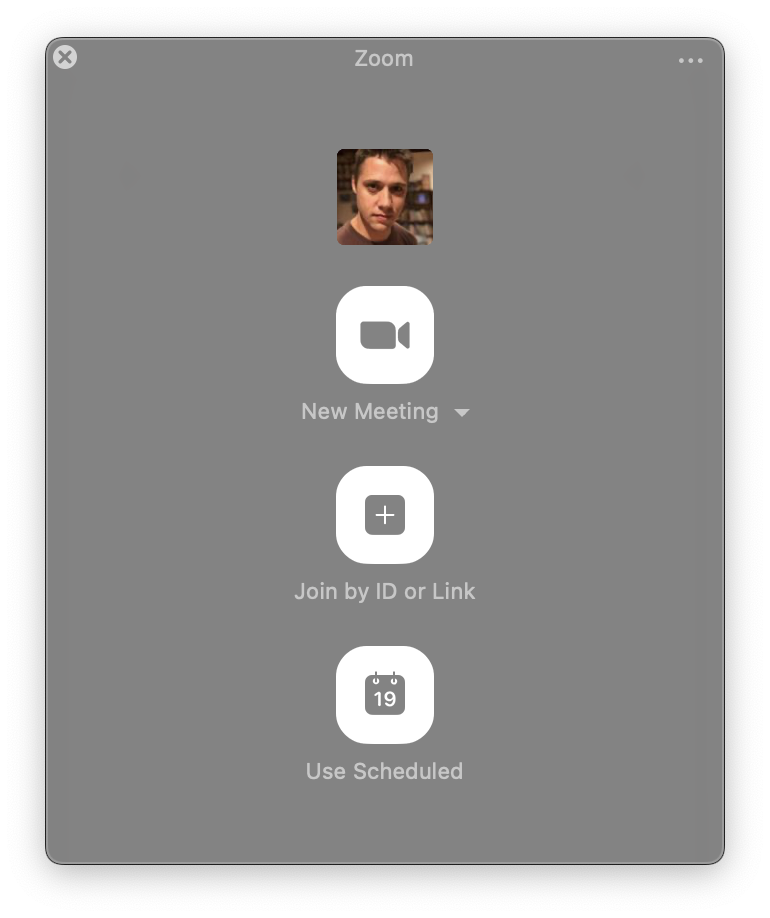
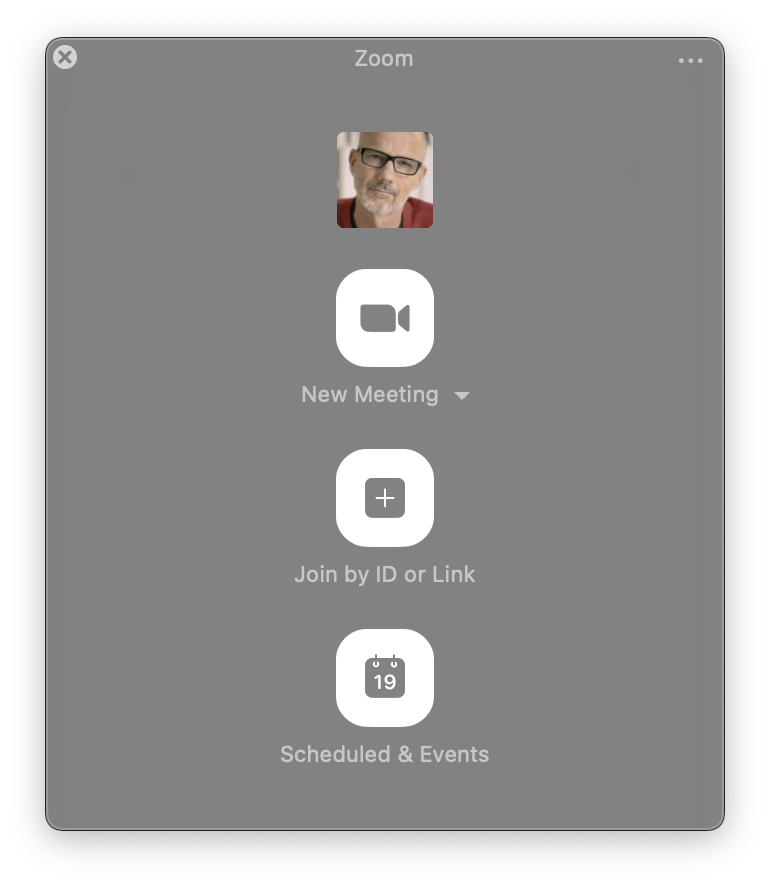
v4.3

diff --git a/docs/_ecamm-live-manual/008-adding-zoom.md b/docs/_ecamm-live-manual/008-adding-zoom.md
@@ -1,20 +1,33 @@
 ---
 
 ---
+**BETA FEATURE!** 
+Ecamm for Zoom is a beta feature! This means that you'll need a beta version of the app to use any of the features describe here. Help us test this exciting new capability by [downloading the Ecamm Live Beta](https://www.ecamm.com/beta).
+{:.notice--info}
 
 ## What Can You Do With Zoom in Ecamm?
 
-Ecamm Live's Zoom integration provides for two main use cases:
+Ecamm Live's Zoom integration provides for two main uses:
 
-- Quickly and easily add Zoom participants as camera sources in your broadcast or recording. Up to eight Zoom participants can join in simply by joining your Zoom meeting or event.
+- Add Zoom participants as camera sources in your broadcast or recording. Up to eight Zoom participants can join in simply by joining your Zoom Meeting, Zoom Webinar, or Zoom Event. 
 
-- Automatically send Ecamm Live's audio and video output into a Zoom meeting or event.
+- Automatically send Ecamm Live's audio and video output into a Zoom Meeting, Zoom Webinar, or Zoom Event.
+
+Other features include:
+
+- Automatically create individual participant audio and video recordings (also called [ISO recording](018-other-options/#recording-preferences)) during a live stream or recording.
+
+- Add Zoom chat messages to your meeting broadcast/recording as text overlays.
 
 ## Host System Requirements
 
 - To use Ecamm Live's Zoom integration we recommend an iMac, Mac Studio, Mac Mini or MacBook Pro manufactured in 2020 or newer, and at least a 10 Mbps internet connection. 
 
-- An Apple Silicon-based Mac running macOS 10.14 or newer is required.
+- An [Ecamm Live Pro plan](https://appg2.ecamm.com/users/pricingplans) is required.
+
+- An Apple Silicon-based Mac is required for individual participant [audio and video (ISO) recording](018-other-options/#recording-preferences).
+
+- A Zoom Pro plan is required for 720p video resolution. A Zoom Business plan is required for 1080p video resolution. See [Maximizing Participant Video Resolution](#maximizing-participant-video-resolution).
 
 - Wearing headphones is not required, but typically results in better audio quality. If you are not using headphones, be sure to turn on [Echo Cancellation](../014-adjusting-sound-levels/#echo-cancellation) in the Sound Levels window.
 
@@ -30,7 +43,7 @@ Ecamm Live's Zoom integration provides for two main use cases:
 
 ## Ecamm Live's Zoom Window
 
-The Zoom window is used to create and join Zoom meetings, as well as to manage the meeting's participants. If you don't see the Zoom window on your screen, pick <samp>Zoom</samp> from the <samp>Window</samp> menu at the top of the screen. 
+The Zoom window is used to create and join Zoom meetings, as well as to manage the meeting's participants. If you don't see the Zoom window on your screen, pick <samp>Zoom</samp> from the <samp>Window</samp> menu at the top of the screen, or click the Zoom icon on the right-hand side of the [Main window](../002-the-main-window).
 
 ![Figure\: The Zoom Window](/assets/img/unlinked_zoom.png "The Zoom Window"){:width="350px"}
 
@@ -42,13 +55,13 @@ If you have not linked Ecamm to your Zoom account, you'll see a <samp>Link Zoom 
 
 Once linked, you may prompted to return to the Ecamm Live app. Click <samp>Allow</samp>.
 
-The Zoom window will now show your avatar image and buttons to create and join Zoom meetings and events.
+The Zoom window will now show your avatar image and buttons to create and join Zoom Meetings, Zoom Webinars, and Zoom Events.
 
 ![Figure\: The Zoom Window](/assets/img/logged_in.png "The Zoom Window"){:width="350px"}
 
 ## Creating or Joining a Zoom Meeting
 
-Click <samp>New Meeting</samp> to create a new Zoom meeting. A Zoom meeting window will open. Alternatively, join an existing meeting using the <samp>Join By ID or Link</samp> button or the <samp>Use Scheduled</samp> button. The <samp>Use Scheduled</samp> button will also provide access to scheduled Zoom webinars, and event sessions.
+Click <samp>New Meeting</samp> to create a new Zoom meeting. A Zoom meeting window will open. Alternatively, join an existing Zoom Meeting or Zoom Webinar using the <samp>Join By ID or Link</samp> button or the <samp>Scheduled & Events</samp> button. The <samp>Scheduled & Events</samp> button will also provide access to scheduled Zoom Event sessions.
 
 Note that there is no need to open the Zoom app on your Mac. The meeting will be conducted entirely within the Ecamm Live app.
 
@@ -66,29 +79,31 @@ The meeting will automatically use the output of Ecamm Live as its camera source
 
 ## Inviting and Managing Participants
 
-Once a meeting has started, you'll see your Zoom invitation link displayed at the bottom of the window. Send this link to your guests to allow them to join your meeting. Click the link to copy it to your Mac's clipboard. 
+Once a meeting has started, you'll see your Zoom invitation link displayed at the bottom of the window. Send this link to your guests to allow them to join your meeting. Click the link to copy it. 
 
 ![Figure\: The Zoom Window](/assets/img/emptymeeting.png "The Zoom Window"){:width="350px"}
 
-When Zoom participants join, they will be listed in the Zoom window and automatically added as camera sources in Ecamm Live's camera list. Zoom guest audio will be mixed into the broadcast or recording automatically.
+When Zoom Meeting participants and Zoom Webinar panelists join, they will be listed in the Zoom window. Zoom guest audio will be mixed into the broadcast or recording automatically.
 
-Note that if the guest may need to manually start their camera in Zoom before video will be received.
+![Figure\: The Zoom Window](/assets/img/addclarence.png "The Zoom Window"){:width="350px"}
+
+#### Adding Guests as Cameras
+
+Add guests to Ecamm Live's camera list by clicking the <samp>Add</samp> button. Note that guests may also need to start their camera in Zoom before video will be received.
 
 ![Figure\: The Zoom Window](/assets/img/clarence.png "The Zoom Window"){:width="350px"}
 
 #### Removing Guests
 
-To remove a guest from Ecamm Live's camera list, click the ••• button in the top corner of that guest's video feed, and pick <samp>Remove from Cameras</samp> You will see their video feed change to their avatar icon, along with an <samp>Add</samp> button.
+To remove a guest from Ecamm Live's camera list, click the ••• button in the top corner of that guest's video feed, and pick <samp>Remove from Cameras</samp>. You will see their video feed change back to their avatar icon, along with an <samp>Add</samp> button.
 
-![Figure\: The Zoom Window](/assets/img/addclarence.png "The Zoom Window"){:width="350px"}
-
-To remove the participant from the meeting completely, click the ••• button in the top corner of that guest's video feed, and pick <samp>Return to Waiting Room</samp> or <samp>Remove from Zoom Meeting</samp> Note that if you use the <samp>Remove from Zoom Meeting</samp> feature, the participant may not be able to rejoin the meeting. Also note that neither of these options can be used on a meeting host or [co-host](https://support.zoom.com/hc/en/article?id=zm_kb&sysparm_article=KB0066640).
+To remove the participant from the meeting completely, click the ••• button in the top corner of that guest's video feed, and pick <samp>Return to Waiting Room</samp> or <samp>Remove from Zoom Meeting</samp>. Note that if you use the <samp>Remove from Zoom Meeting</samp> feature, the participant may not be able to rejoin the meeting. Also note that neither of these options can be used on a meeting host or [co-host](https://support.zoom.com/hc/en/article?id=zm_kb&sysparm_article=KB0066640).
 
 #### Muting Guests
 
 To mute a guest in the Zoom meeting, click the ••• button in the top corner of that guest's video feed, and pick <samp>Mute Guest</samp>. Once muted, pick <samp>Ask to Unmute</samp> to prompt the guest to unmute. Note that this feature is only available if you are a meeting host or  [co-host](https://support.zoom.com/hc/en/article?id=zm_kb&sysparm_article=KB0066640).
 
-### Ending the Meeting
+#### Ending the Meeting
 
 End the meeting by clicking the red <samp>End Meeting</samp> button in the Zoom window or Zoom Meeting window. Alternatively, simply close the Zoom Meeting window. Note that the button will be labeled <samp>Leave Meeting</samp> if you're not the meeting host.
 
@@ -98,17 +113,64 @@ To access the Zoom meeting's settings, pick <samp>Zoom Meeting Settings...</samp
 
 Other preferences related to Zoom can be found in Ecamm Live's Preferences window.
 
-#### Auto-Admit Participants
+#### Auto-Admit Zoom Participants
 
-Participants can automatically bypass Zoom's waiting room feature. In the ••• menu in the top right-hand corner of the Zoom window, choose from the three <samp>Auto-Admit Participants</samp> options. To only auto-admit participants who have previously joined your meetings, pick <samp>Known Participants</samp>.
+Participants can automatically bypass Zoom's waiting room feature. In the ••• menu in the top right-hand corner of the Zoom window, or in Ecamm Live's Preferences window, choose from the three <samp>Auto-Admit Participants</samp> options. To only auto-admit participants who have previously joined your meetings, pick <samp>Known Participants</samp>.
 
-#### Auto-Add Participants to Cameras
+#### Auto-Add Zoom Participants to Ecamm as Camera Sources
 
-By default, participants are automatically added as Ecamm Live camera sources. This can be changed for situations where Zoom guests will not be part of the recording or broadcast. In the ••• menu in the top right-hand corner of the Zoom window, choose from the three <samp>Auto-Add Participants to Cameras</samp> options. To only auto-add participants who have previously joined your meetings, pick <samp>Known Participants</samp>.
+By default, participants are not automatically added as Ecamm Live camera sources. This can be changed if you would like all guests to become camera sources immediately upon joining. In the ••• menu in the top right-hand corner of the Zoom window, or in Ecamm Live's Preferences window, choose from the three <samp>Auto-Add Participants to Cameras</samp> options. To only auto-add participants who have previously joined your meetings, pick <samp>Known Participants</samp>.
 
-#### Zoom Capture Mode
+#### Zoom Audio Processing
 
-By default, Ecamm Live accesses Zoom's audio and video by requesting recording permission. (Participants will see a message that the meeting is being recorded.) Alternately, livestreaming mode can be used. When the livestreaming capture mode is activated, Zoom participants will instead see a message about the meeting being shared with third-party for streaming. This setting may be used if a Zoom participant's organization has disabled Zoom's recording feature.
+By default, Ecamm Live will override Zoom's audio processing settings. If you'd prefer to configure your Zoom Audio Profile in Zoom's settings manually, pick <samp>Enabled</samp>.
+
+Note that if you choose to enable Zoom's audio profile settings such as background noise removal, certain sound from Ecamm Live (such as music and sound effects) may not be heard properly by meeting participants.
+
+#### Add Zoom Chat to the Ecamm Comments & Reactions Window
+
+Indicate whether you would like Zoom chat messages to [show up in the Comments & Reactions Window.](#adding-zoom-chat-messages-to-your-scene) 
+
+#### Manual Audio Mode
+
+By default, Ecamm Live will route Zoom audio between your Ecamm production and your Zoom audience. (Your Zoom audience will hear sound from Ecamm, and you livestream/recording will include Zoom guest audio.) This all happens automatically. 
+
+However, if you'd rather manage Zoom audio yourself, turn on Manual Audio Mode. 
+
+When this option is turned on, you'll be able to pick any audio device in the Zoom meeting's microphone and speaker settings. Also, Ecamm Live will not mix Zoom guest audio into the broadcast/recording. A typical use for this mode is using Ecamm Live with a multi-channel audio interface. 
+
+## Zoom Capture Modes
+
+Ecamm Live offers two "capture modes" for accessing Zoom participant audio and video. The two modes provide identical video quality, however they each have a different way of informing your Zoom participants that Ecamm Live is capturing their audio and video.
+
+### Livestreaming Capture Mode
+
+By default, Ecamm Live accesses Zoom participant's audio and video using Livestreaming Capture Mode. When this mode begins capturing, Zoom participants will see a message about the meeting being streamed. 
+
+![Figure\: This meeting is being livestreamed.](/assets/img/being_livestreamed.png "This meeting is being livestreamed."){:width="650"}
+
+
+If you are not the meeting host, the host will be prompted for permission:
+
+![Figure\: Request to livestream](/assets/img/streaming_prompt.png "Request to livestream"){:width="400"}
+
+Note that participants will see these messages *even if you are not actually livestreaming.*
+
+Livestreaming Capture Mode cannot be used in a Zoom breakout room.
+
+### Recording Capture Mode
+
+When the Recording Capture Mode is used, Zoom participants will instead hear a "recording in progress" message, and see a message about the meeting being recorded.
+
+![Figure\: This meeting is being recorded.](/assets/img/being_recorded.png "This meeting is being recorded."){:width="650"}
+
+If you are not the meeting host, the host will be prompted for permission:
+
+![Figure\: Kayla is requesting to record this meeting](/assets/img/recording_request.png "Kayla is requesting to record this meeting"){:width="400"}
+
+Note that participants will see these messages *even if you are not actually recording.*
+
+Using the Recording Capture Mode prevents Ecamm Live's embedded Zoom client from using the local or cloud recording features. Other participants can still use local or cloud recording if permitted by the meeting host.
 
 ## Adjusting Sound Levels
 
@@ -133,19 +195,21 @@ Note that once a guest has been assigned to a placeholder, if the guest disconne
 
 ### Adding Zoom Chat Messages To Your Scene
 
-Zoom chat message are automatically added to Ecamm Live [Comments & Reactions window](../012-streaming/#comments-and-reactions). Click the chat message's avatar icon or drag the message to the [Main window](../002-the-main-window) to add the message as an overlay in your broadcast or recording.
+Zoom chat messages are automatically added to Ecamm Live's [Comments & Reactions window](../012-streaming/#comments-and-reactions). Click the chat message's avatar icon or drag the message to the [Main window](../002-the-main-window) to add the message as an [overlay](../006-using-overlays/#comment-overlays) in your broadcast or recording.
 
-![Figure\: The Comments & Reactions Window](/assets/img/zoomcomments.png "The Comments & Reactions Window"){:width="300"}
+![Figure\: The Comments & Reactions Window](/assets/img/zoomcomments.png "The Comments & Reactions Window"){:width="375"}
+
+The Comments & Reactions window can also be used to send Zoom chat messages.
 
 ## Maximizing Participant Video Resolution
 
-Zoom participant video resolution will vary based on a wide variety of factors, including your Zoom account level, various Zoom settings, and host and participant internet connection speed and camera capabilities.
+Zoom participant video resolution will vary based on a wide variety of factors, including your Zoom account level, various Zoom settings, host and participant internet connection speed and camera capabilities.
 
 Most importantly, a **Zoom Pro** account is required for 720p resolution. A **Zoom Business** account or higher is required for 1080p resolution. You may need to [contact Zoom support](https://support.zoom.com/hc/en/contact?id=contact_us) to request these higher resolutions once your account has been upgraded.
 
 Please refer to Zoom's guide on [Enabling HD video for Zoom Meetings](https://support.zoom.com/hc/en/article?id=zm_kb&sysparm_article=KB0066166) for details on ensuring that participants are able to join at higher resolutions. Note that the mention in the linked article about requiring "Active Speaker Layout" does not apply, as Ecamm Live will ensure that the highest available resolutions are requested from each participant.
 
-## Removing Ecamm Live from Zoom
+## Unlinking Ecamm Live From Zoom
 
 To log out of your Zoom account in Ecamm Live, click your avatar icon in the Zoom window, and then click <samp>Logout</samp>.
 

diff --git a/docs/_ecamm-live-manual/012-streaming.md b/docs/_ecamm-live-manual/012-streaming.md
@@ -57,32 +57,6 @@ When broadcasting to YouTube, Twitch, or a Facebook business Page, you can add c
 
 Comments are saved to a text file with the file extension .srt. The SRT file is saved alongside your recording file.
 
-#### Restrictions on Facebook Group Comments
-
-Due to Facebook privacy restrictions, when broadcasting to a Facebook Group, Ecamm Live is not able to display Group member names and profile photos unless the Group members have explicitly granted permission to the Ecamm Live app. This means that comments from Group members who have not granted permission will show up anonymously.
-
-![Figure\: Comments & Reactions Window with an anonymous Group comment](/assets/img/comments.png "Comments & Reactions Window with an anonymous Group comment"){:width="600px"}
-
-#### Inviting Facebook Group Members to Grant Permission
-
-To invite Facebook Group members to grant their permission, click the <samp>Invite Group Members</samp> button at the bottom of the Comments and Reactions Window. The window will change to display an invitation link. Provide this link to Facebook Group members.
-
-There is also a checkbox for automatically adding this link to your broadcast's post description on Facebook.
-
-![Figure\: Comments & Reactions Window showing invitation link](/assets/img/group_code.png "Comments & Reactions Window showing invitation link"){:width="334px"}
-
-The link will display a web page where Facebook Group members can log into Facebook and grant permission to Ecamm Live.
-
-![Figure\: ecamm.live/connect web page](/assets/img/permission.png "ecamm.live/connect web page"){:width="547px"}
-
-Facebook Group members will only need to do this once, and from that point on, comments in Ecamm Live will show up with their name and profile photo.
-
-The code number provided in the link is unique to you and the Facebook Group, so it can also be used as a link to invite viewer to your broadcast.
-
-<aside markdown="1" class="notice">
-Note that the above information about anonymous comments and inviting Group members only applies to **Facebook Groups**. Broadcasts to YouTube, Amazon Live, Twitch, and public live streams to a Facebook Profile or business Page will display all comments and their associated names and profile photos without any special action by viewers.
-</aside>
-
 ### Displaying Comments In Your Broadcast
 
 If you would like to share your viewers' comments with the audience, you can add individual comments to the broadcast by dragging them from the Comments and Reactions window to the Main Window, or clicking <samp>Add to Broadcast</samp> under any comment. The comment will become a styled Text Overlay. Read more about your options in the [Overlays section](../006-using-overlays/#comment-overlays).

diff --git a/docs/_ecamm-live-manual/011-creating-and-scheduling.md b/docs/_ecamm-live-manual/011-creating-and-scheduling.md
@@ -48,11 +48,11 @@ Certain destinations will offer platform-specific options:
 
 ![Additional Platform Options](/assets/img/options.jpg "Additional Platform Options"){: width="470px"}
 
-<samp>Facebook Privacy</samp> This option will determine who can see a broadcast to your Facebook Profile. Note that this does not apply to Pages or Groups, only your Profile.
+<samp>Facebook Privacy</samp> This option will determine who can see a broadcast to your Facebook Profile. Note that this does not apply to Pages, only your Profile.
 
 <samp>YouTube Visibility</samp>This option will determine who can see your YouTube broadcast. Choose <samp>Unlisted</samp> for test streams. 
 
-<samp>Facebook Page Crossposting</samp>  Automatic crossposting is a Facebook feature that will automatically present your broadcast on more than one Business Page. Note that this does not apply to Groups, and that comments and reactions will not show up between the crossposted Business Pages.
+<samp>Facebook Page Crossposting</samp>  Automatic crossposting is a Facebook feature that will automatically present your broadcast on more than one Business Page. Note that comments and reactions will not show up between the crossposted Business Pages.
 
 Business pages that have crossposting relationships will be listed here automatically. Establish cross-posting relationships using the Page's Crossposting settings on the Facebook website. To find the Crossposting setting, switch to a Page profile that you administer on facebook.com. Pick "Settings & privacy" from the top-right menu, then pick "Settings". In the left-hand sidebar, click "Videos", and then you'll see a Crossposting section.
 

diff --git a/docs/_ecamm-live-manual/007-using-scenes.md b/docs/_ecamm-live-manual/007-using-scenes.md
@@ -57,7 +57,7 @@ There are 6 ways you can select a Scene to display:
     * The Scene is automatically saved while you edit it.
 
 
-**_ProTip:_** When you have more than one Scene, it's useful to give them a clear, distinct name. While you're live in front of an audience, you don't want to spend time wondering which Scene is which. In the Scenes Window, double-click the name of the Scene you want to rename.  If your stream is scripted, consider putting your Scenes in chronological order before going live. Then you can use the arrow commands <kbd title="command">⌘</kbd> <kbd>→</kbd> and <kbd title="command">⌘</kbd> <kbd>←</kbd> to quickly jump to the next Scene. For even more organization, see [Arranging and Grouping Scenes](#arranging-and-grouping-scenes) below.
+**_Pro Tip:_** When you have more than one Scene, it's useful to give them a clear, distinct name. While you're live in front of an audience, you don't want to spend time wondering which Scene is which. In the Scenes Window, double-click the name of the Scene you want to rename.  If your stream is scripted, consider putting your Scenes in chronological order before going live. Then you can use the arrow commands <kbd title="command">⌘</kbd> <kbd>→</kbd> and <kbd title="command">⌘</kbd> <kbd>←</kbd> to quickly jump to the next Scene. For even more organization, see [Arranging and Grouping Scenes](#arranging-and-grouping-scenes) below.
 {:.notice--info}
 
 #### Duplicating Scenes
